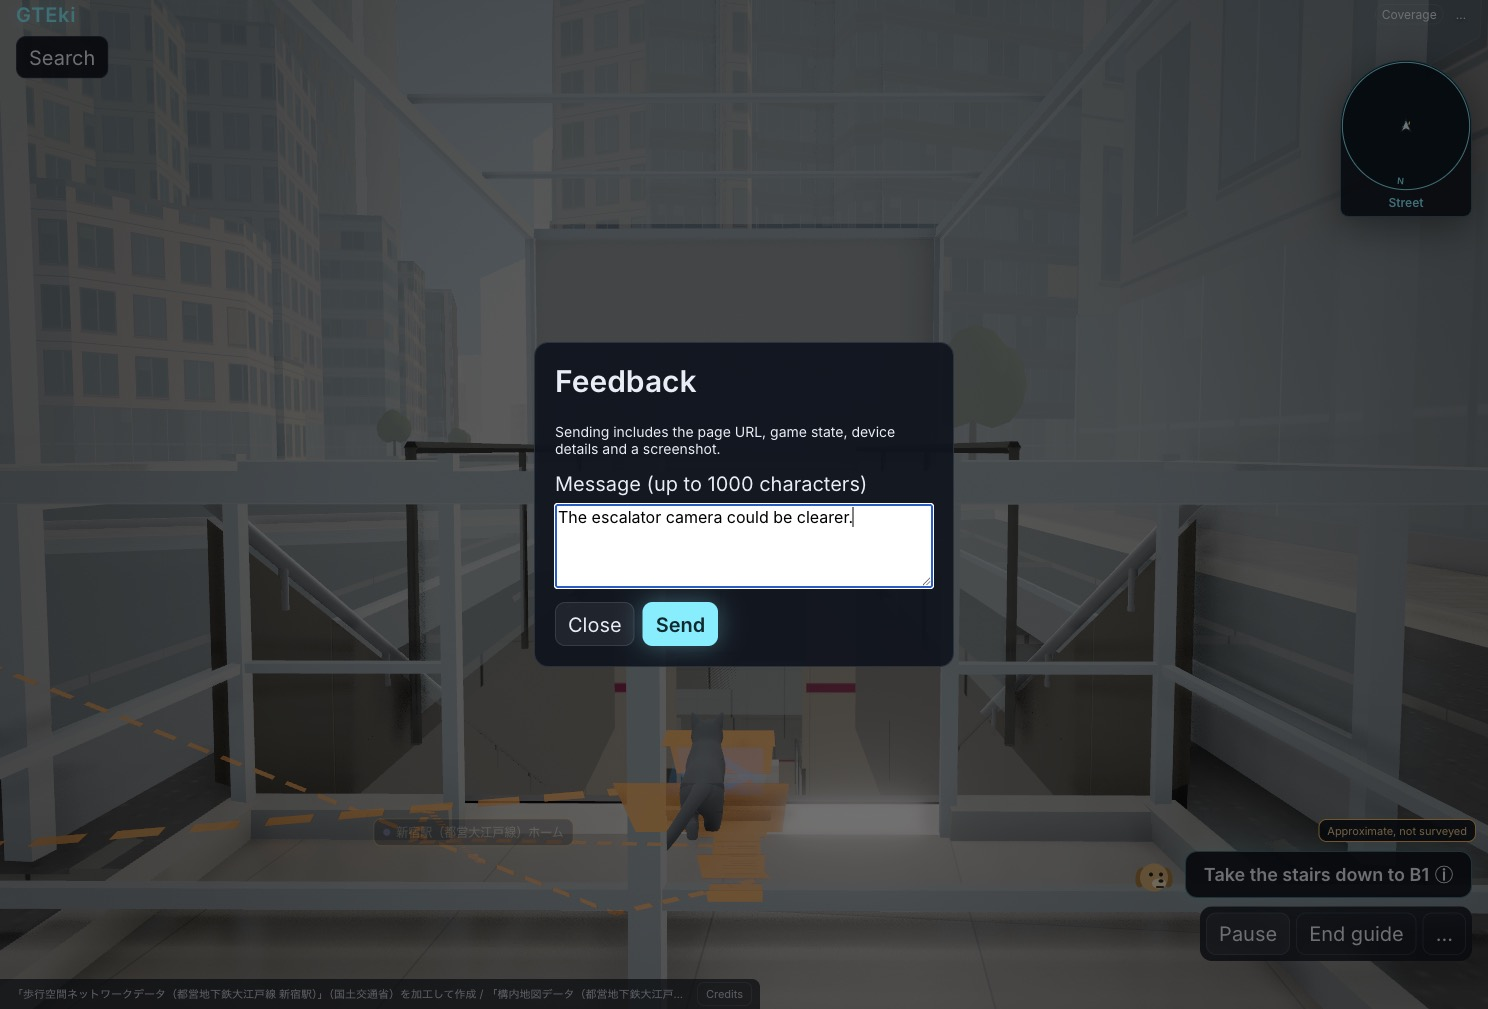
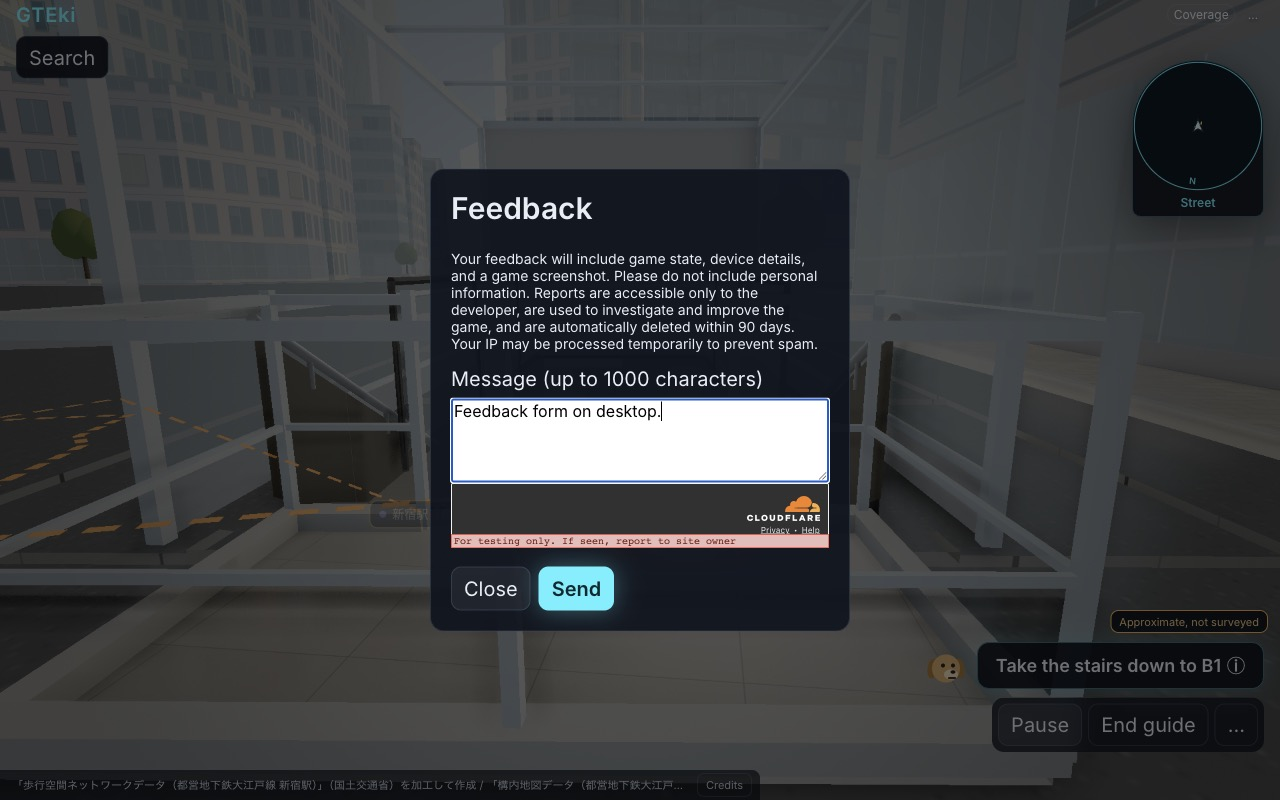
docs(J14): record successful Turnstile phone feedback and retention evidence (2026-11-21 JST)

diff --git a/docs/release/evidence/2026-11-21-feedback/README.md b/docs/release/evidence/2026-11-21-feedback/README.md
@@ -1,16 +1,22 @@
 # Feedback form frames (J14)
 
-Captured 2026-11-21 JST on code commit fe22052, local Vite with the actual Pages
-Function and an in-memory KV binding. These are two feedback UI samples, not a
-full journey acceptance reel.
+Captured 2026-11-21 19:51 JST using the actual Pages Function, a fresh in-memory
+KV binding, Cloudflare's published passing Turnstile test keys and real
+Siteverify. These are form samples, not a full journey acceptance reel.
+The Vite session started at 1cc44a9 (the report's build SHA); it hot-reloaded the
+widget loader correction df6cdd0 before the successful submission.
 
-- Sample 1: [desktop](desktop.jpg), 1488×1009, guide, simT 36.1494 s, English.
-- Sample 2: [phone](phone.jpg), 390×844, touch points 5, guide, simT 79.9246 s,
-  Traditional Chinese. QA held frames during resize, clearing the world buffer;
-  this frame judges the form layout only. The saved report's canvas is rendered
-  explicitly before capture.
+- Sample 3: [phone form](phone.jpg), 390×844, 5 touch points, guide,
+  simT 32.7968 s, English notice and Turnstile widget.
+- Sample 4: [desktop form](desktop.jpg), 1280×800, guide, simT 70.5499 s.
+- [Submitted phone canvas](phone-submitted-canvas.jpg): nonblank, showing the
+  cat, stairs and surrounding scene; JPEG 21,858 bytes.
+- [Receipt](receipt.json): HTTP 201, one stored report, TTL 7,776,000 seconds
+  (90 days), all requested game fields, no stored token and no IP marker.
 
-Opening and typing left the mock store empty. One Send stored one report with
-all requested fields and a 960×651 JPEG of 32,830 bytes. A phone Send within
-60 seconds displayed the localized rate-limit message and kept one report.
-The phone form did not overflow and its textarea maxlength was 1000.
+The source URL included `token=SHOULD_NOT_BE_CAPTURED`; the report retained
+only game parameters. The source fragment was removed by the app's URL update
+before submission, and the payload builder/server independently strip fragments.
+No report was sent by opening or typing. The only Send in this fresh mock
+session stored exactly one report. QA held simulation after phone rendering;
+report capture explicitly rendered and copied the phone canvas in the same task.
